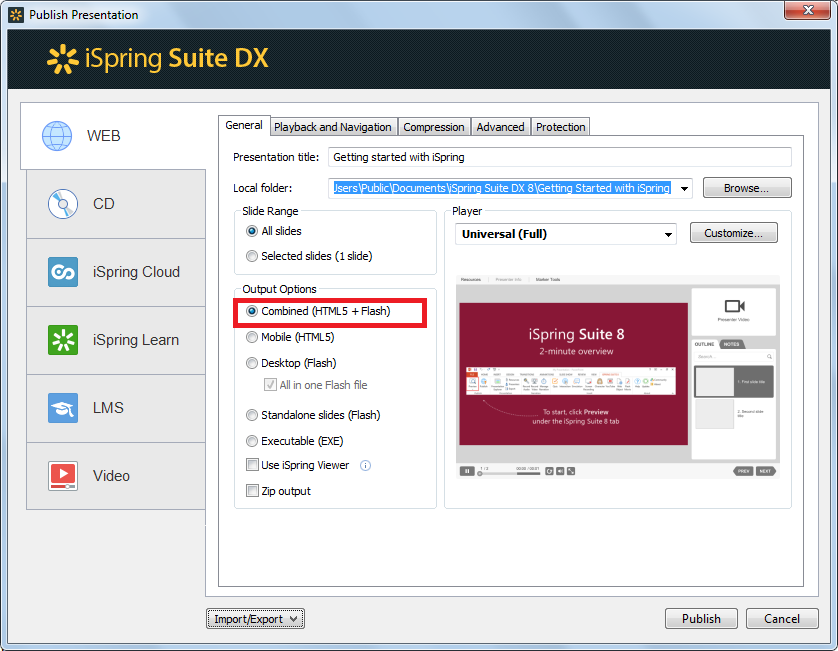
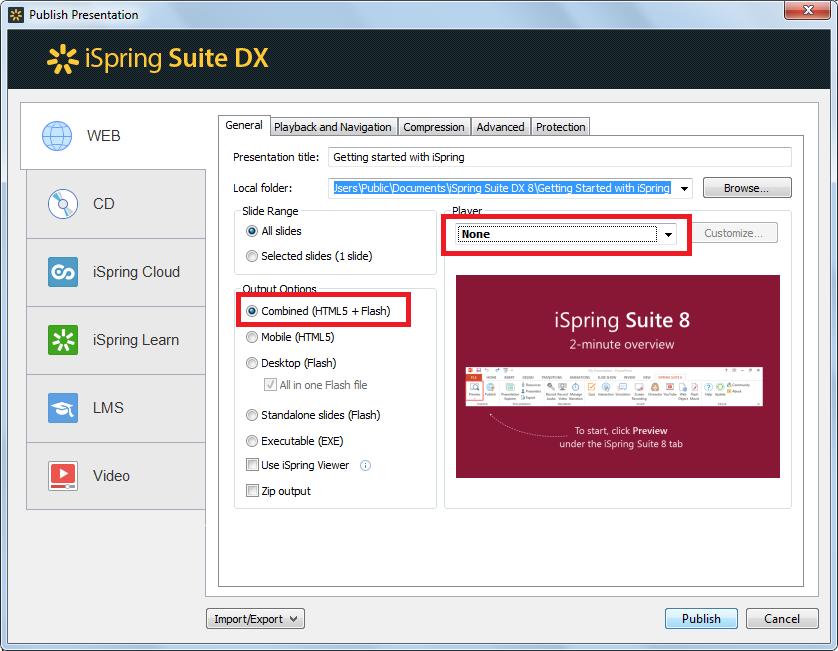
Обновлено описание шага 2 и скриншот вкладки general

Changed region(s): [[0.2792, 0.3072, 0.9308, 0.7373], [0.7757, 0.9217, 0.8998, 0.9831]]

diff --git a/tutorial/index.html b/tutorial/index.html
@@ -15,7 +15,8 @@
 
         <h1>Шаг 2. Публикация презентации</h1>
         <p>
-            Опубликовать презентацию в Combined-режиме
+            Опубликовать презентацию в Combined-режиме с использованием плеера None.
+            В этом режиме будут отключены все компоненты навигации плеера
         </p>
         <img src="images/publish-general.png" />
         <p>
